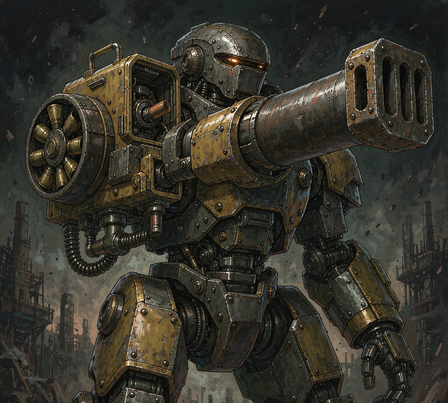
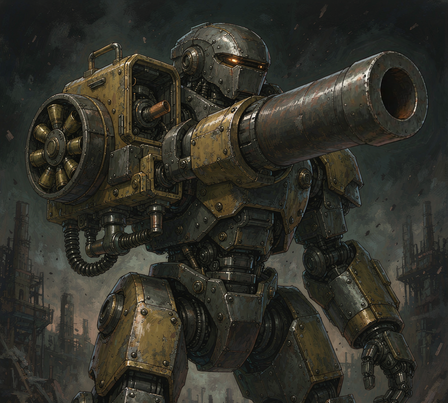
R337b 8057 榴弹击手：炮口改回普通单管
用户反馈「炮管应该是单一炮管，就用普通的炮管」。上一稿的方形炮口制退器
虽然拆掉了多管，但侧向三道排气槽在 448×403 卡面下会被读成三根并排的管子，
视觉效果又滑回机枪。

第三稿把炮口附件全部清空：一根从头到尾等径的光滑圆管，
炮口就是一个朴素的大圆孔（管壁略厚、孔内一圈暗橙余温），
近口只留一道普通的加厚加强环，再没有任何附加。
侧面圆盘弹鼓、炮闩、液压筒等其余结构一律不变。

经验：img2img 的边界是「形状是否与周围结构融在一起」——
删埋在中段的一圈孔必须摘参照图重画；只替换一个显眼的部件（炮口）
用 img2img + 首句 CHANGE ONLY THE MUZZLE 反而更稳，角色一致性全保住。

纯插画替换，卡图总数仍 53。
回归 engine 3598 / reward 26 / bgm 31 / smoke 42 全绿，索引体检通过。

diff --git a/art_src/2026-10-23_卡图修订/README.md b/art_src/2026-10-23_卡图修订/README.md
@@ -2,12 +2,14 @@
 
 | id | 卡名 | 问题 | 改法 |
 |---|---|---|---|
-| 8057 | 榴弹击手 | 「右手更像加特林而不是榴弹炮」 | 多管旋转炮 → **单管大口径 + 方形制退器 + 侧面圆盘弹鼓** |
+| 8057 | 榴弹击手 | 「右手更像加特林而不是榴弹炮」→ 再修「应该是单一炮管，就用普通的炮管」 | 多管旋转炮 → **单管 + 一根普通光滑圆管炮口 + 侧面圆盘弹鼓** |
 | 8038 | 无限装甲 | 「需要有更多『违规改装加装配件』的感觉」 | 正规出厂新车 → **来源不一的装甲层层压焊 + 外挂废件** |
 
 ## 用户口径（R337 原话）
 
 > 榴弹击手的右手更像加特林而不是榴弹炮，修改。无尽装甲需要有更多"违规改装加装配件"的感觉
+
+> 不，榴弹击手的炮管应该是单一炮管，就用普通的炮管
 
 （卡名实为 8038「无限装甲」。）
 
@@ -16,24 +18,30 @@
 **根因是我自己写进去的**：R336 那版提示词里写了「旋转弹巢 / 叠层弹鼓 / 枪口内壁装填余温」，
 「旋转弹巢」就是加特林。所以这次不是「加强描述」，是**把这个结构从提示词里彻底删掉**。
 
-榴弹炮的辨识度靠三样，这次全部点名：
+最终形制（三稿收敛）：
 
-- **单管**：一根短粗滑膛管，炮口是个大黑圆，内壁一圈橙红余温
-- **方形炮口制退器**：整块方块扣在管口，侧向开三道长方形排气槽、槽口熏黑——
-  这一块和「多管」在剪影上完全不冲突，是最强区分点
-- **侧面平贴的圆盘弹鼓**：像车轮一样贴在炮身外侧，正面一圈弹位里插着粗短榴弹，
-  再一根短供弹臂把它接进机匣
+- **单管**：一根从头到尾等径的光滑圆管，就是最普通的炮管
+- **炮口就是一个朴素的大圆孔**：管壁略厚，孔内一圈暗橙余温
+- 近口处只留**一道普通的加厚加强环**，此外再没有任何附件
+- 侧面平贴的**圆盘弹鼓**（正面一圈弹位插着粗短榴弹）+ 一根短供弹臂接进机匣
+- 顶部铰链炮闩掀开、半插一发带铜壳的榴弹；下方回弹液压筒 + 两根外露弹簧
 
-配套：顶部铰链炮闩掀开、半插一发带铜壳的榴弹；下方回弹液压筒 + 两根外露弹簧；
-顶部折叠标尺 + 仰角齿弧手轮；肩部插口露出的线束和冷却管。
+### 第一稿的坑：方块炮口制退器
+
+第一稿改成「单管 + 方形炮口制退器（侧向开三道长条排气槽）」，**在 448×403 卡面尺寸下
+那三道槽会被读成三根并排的管子**，视觉效果又滑回机枪。所以第二稿把炮口附件**全部清空**。
+
+> **教训：「单一炮管」不只是「一根管子」，还要把炮口附件清干净。**
+> 制退器 / 排气槽 / 格栅 / 散热片 / 多道装饰环，缩图后都会被重新组装成「多管」。
 
 **排他句**（写死在提示词里）：
 
 ```
-NO multiple barrels, NO parallel barrel cluster, NO revolving cylinder in the middle
-of the weapon, NO ring of circular holes around the barrel, NO rotary gatling assembly,
-NO minigun, NO long thin rifle barrel, NO cooling fins, NO belt of small rifle cartridges.
-There is exactly ONE barrel and exactly ONE flat disc drum.
+NO multiple barrels, NO parallel barrel cluster, NO revolving cylinder,
+NO ring of circular holes around the barrel, NO rotary gatling assembly, NO minigun,
+NO muzzle brake, NO squared block muzzle, NO venting slots, NO side ports,
+NO grille, NO multiple openings, NO cooling fins, NO fluted barrel.
+The end of the gun is ONE plain round tube with ONE plain round hole.
 ```
 
 ## 8038 无限装甲
@@ -65,11 +73,15 @@ NO standardized military tank silhouette, NO glossy pristine paint, NO sci-fi en
   第二版把否定句加到四句（`NO ring of circular ports / NO revolving cylinder /
   NO rotary gatling assembly / NO multi-barrel cluster`），**那圈孔还在**。
   原因很简单——原图里那个形状已经在潜空间里，参照图的分量压过文字。
+- **第三版（纯文生图）成功，第四版（改炮口）又反过来靠 img2img 成功**：
+  因为第四版只是「把炮口一个显眼部件换成另一个形状」，属于**替换**而不是「删掉埋在中段的
+  一圈孔」，且提示词第一句就写 `CHANGE ONLY THE MUZZLE`。
 
-> **判断规则**：要「删掉原图里的某个结构」时，img2img 的否定句基本无效；
-> 第三版直接**不带参照图、纯文生图重画**，把角色特征（配色 / 目镜 / 站姿 / 背景 /
-> 光照方向）逐条重写一遍，一次就对了。
-> 加东西 → img2img；删结构 → 文生图重画。
+> **判断规则**：
+> - 往原图里**加**东西 → img2img（`image1` 旧成品 + `input_fidelity` high/medium）
+> - 要**删掉**原图里某个已成形的结构 → 摘掉参照图、纯文生图重画，
+>   把角色特征（配色 / 目镜 / 站姿 / 背景 / 光照方向）逐条重写
+> - 只是**替换一个显眼部件**、且其余全部要保持 → img2img + `CHANGE ONLY THE …` 开头
 
 ## 出图记录
 
@@ -77,7 +89,8 @@ NO standardized military tank silhouette, NO glossy pristine paint, NO sci-fi en
 |---|---|
 | 8057 v1 | 大口径炮口成立，中段六孔残留 → 废弃（`8057_v1_废弃.png`） |
 | 8057 v1b | 加了方形制退器，六孔仍在 → 废弃（`8057_v1b_残留六孔.png`） |
-| 8057 v2 | **采用**（纯文生图） |
+| 8057 v2 | 单管成立，但方块制退器的三道槽在缩图后读成「三根管」→ 被否（`8057_v2.png`） |
+| 8057 v3 | **采用**：普通圆管炮口（img2img，`CHANGE ONLY THE MUZZLE`） |
 | 8038 v2 | **采用**（一次过） |
 
 原图（1024）全留档在 `raw/`，按卡 id 命名，废弃版带原因后缀——以后回看能知道
@@ -92,7 +105,8 @@ NO standardized military tank silhouette, NO glossy pristine paint, NO sci-fi en
 
 ## 验收
 
-- 缩到 448×403 后主体完整、水印干净（对照图 `art_src/_review/_r337_cardfix.png`，左旧右新）
+- 缩到 448×403 后主体完整、水印干净（对照图 `art_src/_review/_r337_cardfix.png`，
+  上排 8057 三稿演进「原加特林 → 方块制退器 → 普通炮管」，下排 8038 旧/新）
 - 图鉴详情 `gallery.tscn -- --screenshot --card 8057 / 8038` 两张抽查正常
 - `_art_index.py --check` → 体检通过
 - `_verify.py` 五套全绿（纯插画替换，不涉及任何机制 / 计数）
